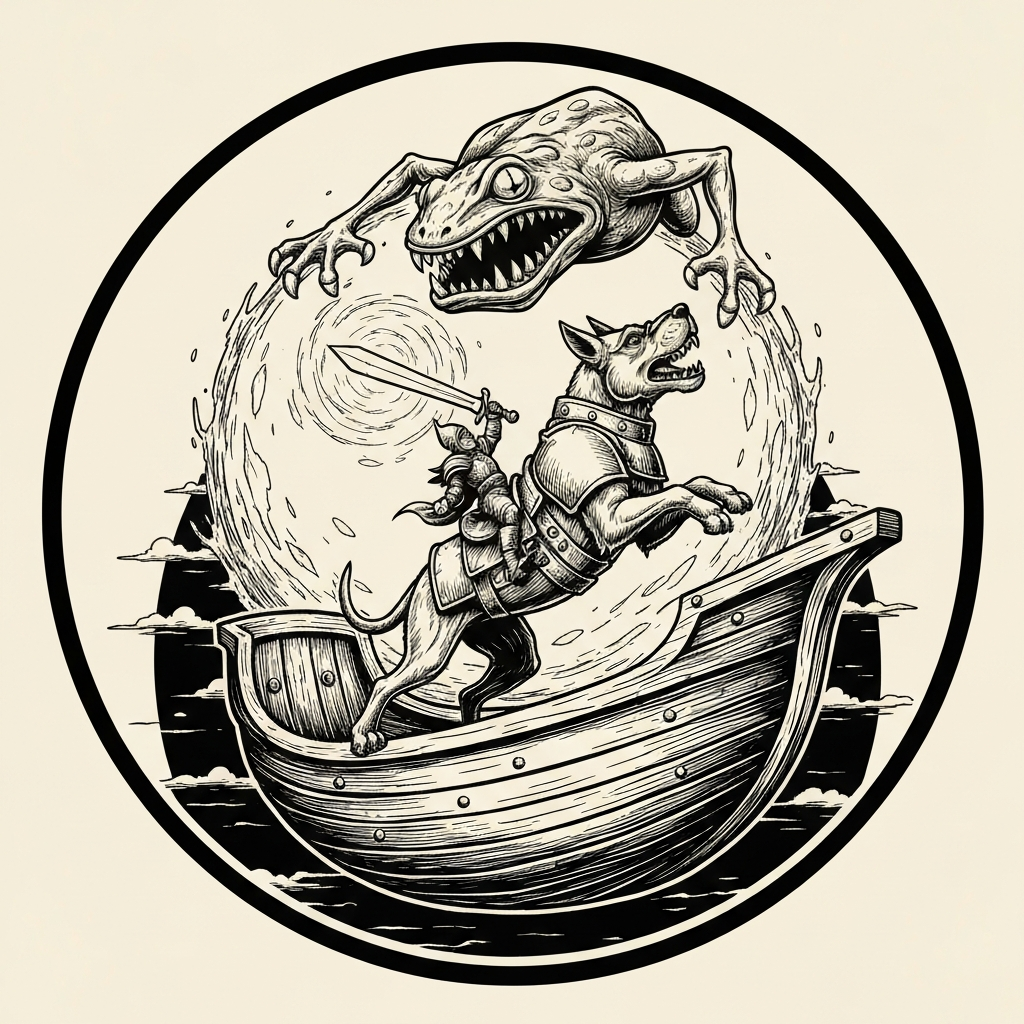
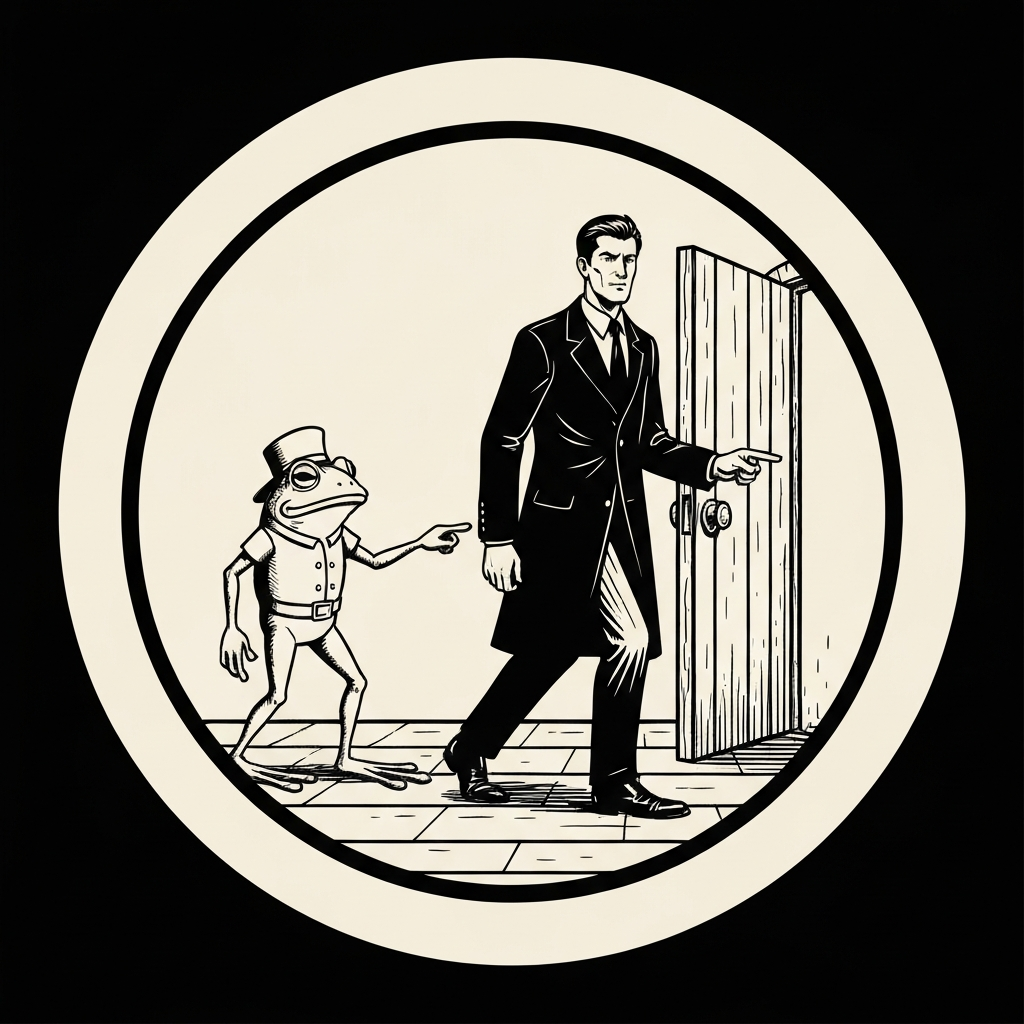
Regenerate image 5 for pandodnd 2026-07-01 with correct prompt
Previous prompt depicted Perri on Waffles (no matching achievement);
replaced with reactor bluff scene for "Something's Wrong With the Reactor".

diff --git a/rpg/pandodnd/public/sessions/2026-07-01.md b/rpg/pandodnd/public/sessions/2026-07-01.md
@@ -30,7 +30,7 @@ image_prompt:
   - "Bold vintage woodcut badge icon, a hand slamming flat against a crackling alien control console, green energy shattering outward as the machine goes dark, small mechanical eyeballs falling lifeless around the edges, high contrast, circular badge format, no text in the image"
   - "Bold vintage woodcut badge icon, a burly sailor's forearm holding a short green potion vial, the arm muscles bulging cartoonishly large mid-drink, a crescent of punching force forming at the knuckles, bold simple shapes, circular badge format, no text in the image"
   - "Bold vintage woodcut badge icon, a spiral of hypnotic kaleidoscopic light filling a zero-gravity chamber, three frog-shaped cultist figures frozen mid-leap with glassy staring eyes, playing cards scattered in the air, dramatic lighting, circular badge format, no text in the image"
-  - "Bold vintage woodcut badge icon, a large armored dog leaping upward in a weightless ship cabin with a small paladin rider pressing a glowing blade forward toward a looming frog-beast above, backlighting from a swirling chaos portal, circular badge format, no text in the image"
+  - "Bold vintage woodcut badge icon, a confident humanoid figure striding forward past a befuddled frog-person guard who points toward a doorway with one webbed hand, the figure's body language radiating unearned authority, dramatic single-source light from the doorway beyond, circular badge format, no text in the image"
 ---
 
 A tiefling chalked a door in the marble walls of Sigil and led them through into something off the tour map: the Nameless Voyager, a restaurant ship drifting through Limbo with curved walls, zero gravity, and a full crew of grung — poison dart frog people — working every table and the gyroscope bar. The pub crawlers they'd been escorting scattered toward the drinks immediately. The party ordered, spread out, and watched. Within minutes a grung server named Throd Uroq was hovering too close, watching Alistair with an urgency that didn't match her station. When he waved her over, the truth came out in a rush: the cult of Kerak Muylop had seized the crew; hostages were locked in the bridge; a ritual to transform the grung into slaadi was already underway. More than half the people in the room — servers, patrons, bar staff — were part of it. Throd just wanted to go home.
